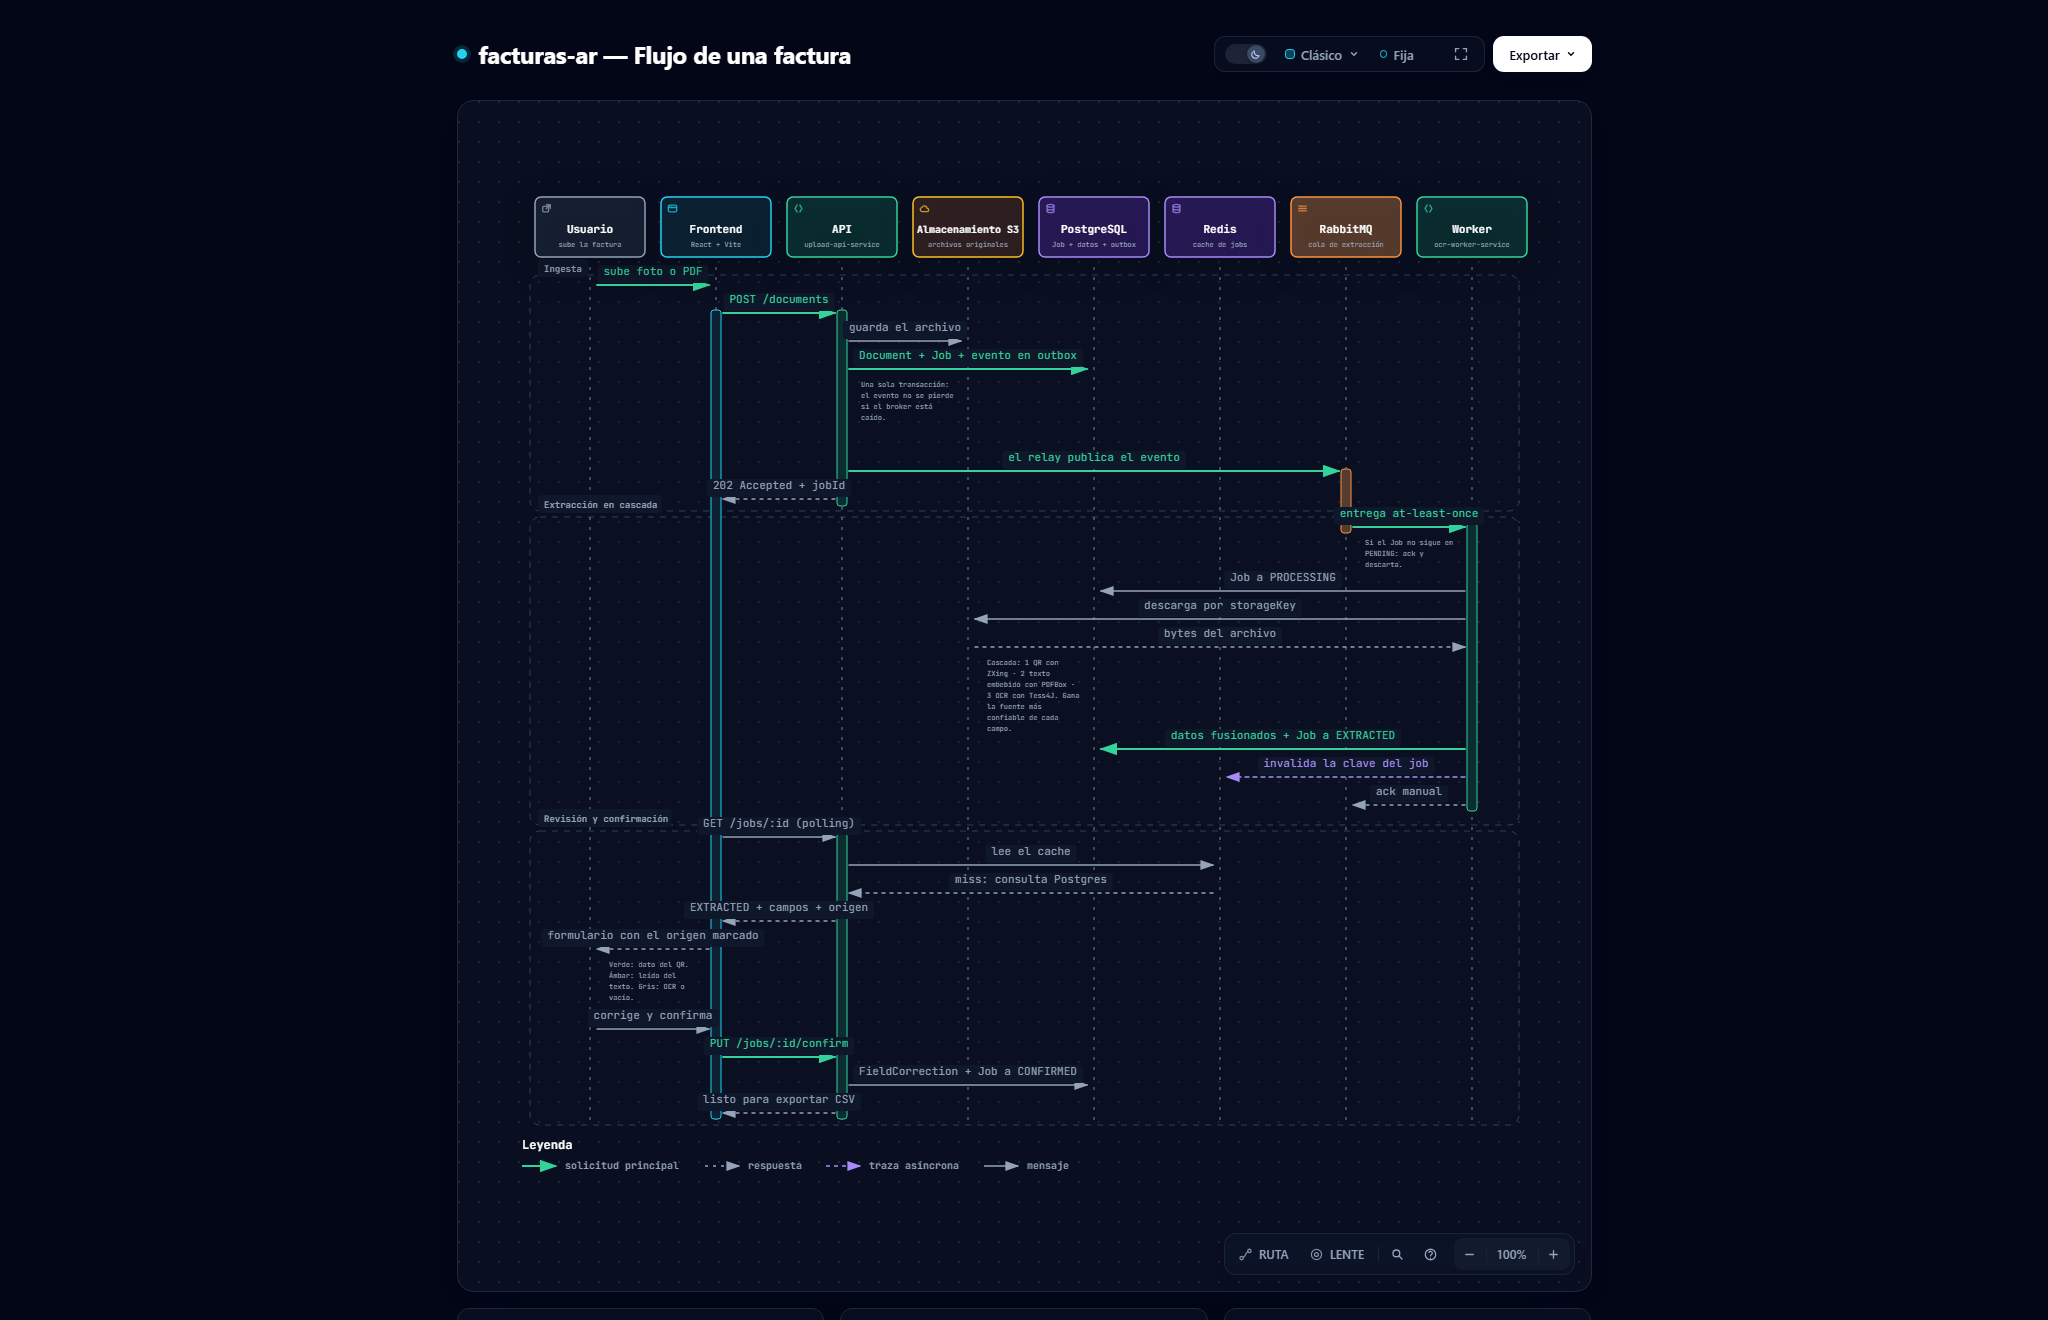
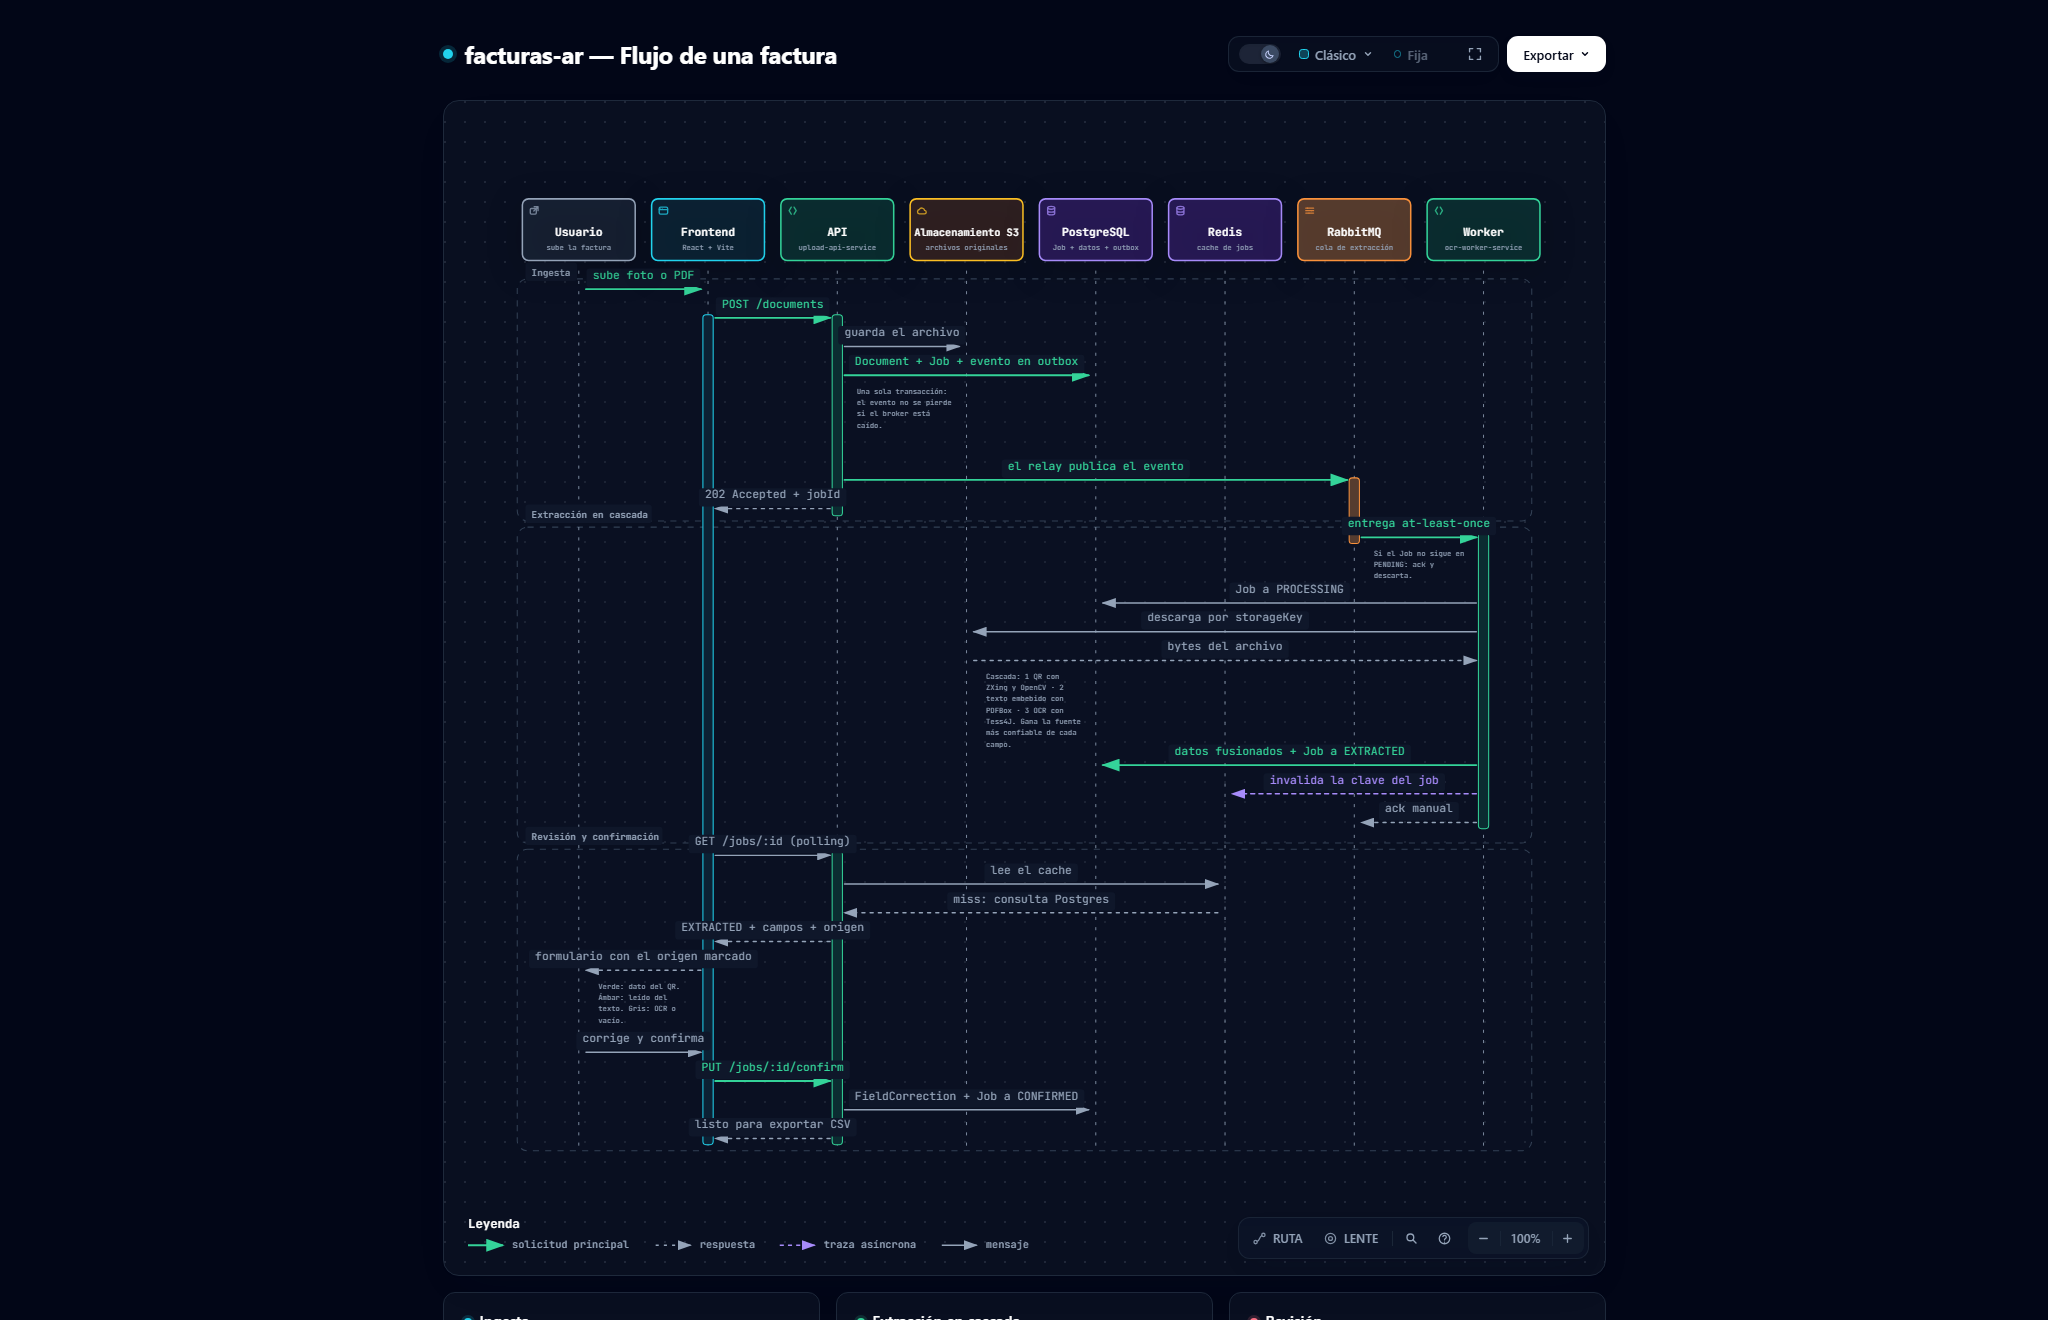
docs: los diagramas quedaron con dos cosas que ya no son ciertas
Decian que el QR lo lee ZXing y que PDFBox saca razon social, neto e
IVA. Lo primero dejo de ser cierto con el ADR 010: son dos motores
probados en orden, y el que lee las fotos es el de WeChat. Lo segundo
nunca llego a serlo: la v1 apunta al monotributista y no extrae neto ni
IVA, asi que la semana 3 dejo PDFBox sacando razon social y CUIT del
emisor. La tarjeta del diagrama de secuencia ademas decia siete campos
donde el QR trae doce.

La tabla de la cascada del README decia ZXing a secas en la fila del QR.
El resto del README y el documento de diseno ya estaban al dia.

Sobre como se regenero: Archify no esta instalado en la maquina y no se
pudo traer, asi que el HTML se parcheo a mano en vez de volver a
generarlo. Son nueve lineas en un diagrama y tres en el otro, todas de
texto. La unica que no reflui sola es la nota de la cascada, que Archify
habia partido en tspan al generar; se reenvolvio con el mismo corte de 22
caracteres, verificando primero que el algoritmo reprodujera la nota
original tal cual, y quedo en las mismas siete lineas, asi que la caja no
cambio de alto. Volver a correr Archify sobre el JSON corregido da este
mismo contenido.

Las PNG se recapturaron con Chrome headless a 2048x1320, que es lo que
media la exportacion anterior: el archivo es una captura de la pagina
entera, no una salida propia de Archify. Queda documentado en el README
como alternativa cuando el CLI no esta.

diff --git a/docs/diagrams/arquitectura.html b/docs/diagrams/arquitectura.html
@@ -5348,15 +5348,15 @@ OTHER DEALINGS IN THE FONT SOFTWARE.
         <text data-detail="context" x="1299.5" y="138" class="t-muted" font-size="9" text-anchor="middle">invoice.processing (topic)</text>
         </g>
 
-        <g id="node-worker" data-node-id="worker" data-node-label="ocr-worker-service" tabindex="0" role="button" aria-label="Enfocar ocr-worker-service, ZXing · PDFBox · Tess4J, Docker Compose · entorno local" aria-pressed="false" data-node-kind="backend" data-node-sublabel="ZXing · PDFBox · Tess4J" data-node-tag="cascada + ack manual" data-node-context="Docker Compose · entorno local">
-          <title>ocr-worker-service · ZXing · PDFBox · Tess4J · Docker Compose · entorno local · cascada + ack manual</title>
+        <g id="node-worker" data-node-id="worker" data-node-label="ocr-worker-service" tabindex="0" role="button" aria-label="Enfocar ocr-worker-service, ZXing + OpenCV · PDFBox · Tess4J, Docker Compose · entorno local" aria-pressed="false" data-node-kind="backend" data-node-sublabel="ZXing + OpenCV · PDFBox · Tess4J" data-node-tag="cascada + ack manual" data-node-context="Docker Compose · entorno local">
+          <title>ocr-worker-service · ZXing + OpenCV · PDFBox · Tess4J · Docker Compose · entorno local · cascada + ack manual</title>
           <rect x="1200" y="260" width="200" height="80" rx="8" class="c-mask"/>
           <rect x="1200" y="260" width="200" height="80" rx="8" class="c-backend" data-animate="node" style="--step:7" stroke-width="1.5"/>
           <g aria-hidden="true" data-semantic-sigil="backend" class="semantic-sigil s-backend" transform="translate(1206 266) scale(0.6875)">
             <path d="M6 3 3 8l3 5M10 3l3 5-3 5"/>
           </g>
           <text data-node-label="" data-detail-anchor="" x="1300" y="298" class="t-primary" font-size="11" font-weight="600" text-anchor="middle">ocr-worker-service</text>
-        <text data-detail="context" x="1300" y="314" class="t-muted" font-size="9" text-anchor="middle">ZXing · PDFBox · Tess4J</text>
+        <text data-detail="context" x="1300" y="314" class="t-muted" font-size="9" text-anchor="middle">ZXing + OpenCV · PDFBox · Tess4J</text>
         <text data-detail="fine" x="1300" y="332" class="t-backend" font-size="7" text-anchor="middle">cascada + ack manual</text>
         </g>
 
@@ -5654,9 +5654,9 @@ OTHER DEALINGS IN THE FONT SOFTWARE.
           <h3>Extracción en cascada</h3>
         </div>
         <ul>
-          <li>1 · QR de ARCA con ZXing: fecha, CUIT, punto de venta, tipo, número, importe y CAE exactos</li>
-          <li>2 · PDFBox sobre el texto embebido: razón social, neto e IVA</li>
-          <li>3 · OpenCV + Tess4J solo para lo que siga faltando; ante discrepancia gana el QR</li>
+          <li>1 · QR de ARCA, doce campos exactos y sin OCR: ZXing para el PDF rasterizado, el detector de WeChat de OpenCV para las fotos (ADR 010)</li>
+          <li>2 · PDFBox sobre el texto embebido: la razón social, que el QR no trae, y el CUIT del emisor como respaldo</li>
+          <li>3 · Tess4J solo para lo que siga faltando; ante discrepancia gana el QR</li>
         </ul>
       </div>
 

diff --git a/docs/diagrams/flujo-factura.html b/docs/diagrams/flujo-factura.html
@@ -5294,7 +5294,7 @@ OTHER DEALINGS IN THE FONT SOFTWARE.
           <rect x="675.9" y="502" width="124.19999999999999" height="18" rx="3" class="c-mask"/>
           <text x="738" y="512" class="t-muted" font-size="11" text-anchor="middle">bytes del archivo</text>
         </g>
-        <text data-detail="context" x="505" y="540" class="t-muted" font-size="7"><tspan x="505" dy="0">Cascada: 1 QR con</tspan><tspan x="505" dy="11">ZXing · 2 texto</tspan><tspan x="505" dy="11">embebido con PDFBox ·</tspan><tspan x="505" dy="11">3 OCR con Tess4J. Gana</tspan><tspan x="505" dy="11">la fuente más</tspan><tspan x="505" dy="11">confiable de cada</tspan><tspan x="505" dy="11">campo.</tspan></text>
+        <text data-detail="context" x="505" y="540" class="t-muted" font-size="7"><tspan x="505" dy="0">Cascada: 1 QR con</tspan><tspan x="505" dy="11">ZXing y OpenCV · 2</tspan><tspan x="505" dy="11">texto embebido con</tspan><tspan x="505" dy="11">PDFBox · 3 OCR con</tspan><tspan x="505" dy="11">Tess4J. Gana la fuente</tspan><tspan x="505" dy="11">más confiable de cada</tspan><tspan x="505" dy="11">campo.</tspan></text>
         </g>
 
         <g data-edge-from="worker" data-edge-to="postgres" data-edge-label="datos fusionados + Job a EXTRACTED" data-edge-key="10" data-edge-id="persiste-datos">
@@ -5722,8 +5722,8 @@ OTHER DEALINGS IN THE FONT SOFTWARE.
           <h3>Extracción en cascada</h3>
         </div>
         <ul>
-          <li>El QR obligatorio de ARCA (RG 4892) da siete campos exactos, sin OCR</li>
-          <li>PDFBox cubre razón social, neto e IVA sobre el texto embebido del PDF</li>
+          <li>El QR obligatorio de ARCA (RG 4892) da doce campos exactos, sin OCR, con dos decodificadores probados en orden</li>
+          <li>PDFBox saca del texto embebido la razón social, que el QR no trae</li>
           <li>El OCR queda de último recurso, solo para los campos que siguen vacíos</li>
           <li>Cada campo registra su fuente; ante discrepancia gana el QR</li>
         </ul>

diff --git a/README.md b/README.md
@@ -250,6 +250,16 @@ node <ruta>/archify/bin/archify.mjs finalize architecture \
 
 Las vistas estáticas (`*-light.png` / `*-dark.png`) salen de `archify visual-check <html> --out-dir <dir>`.
 
+Sin Archify a mano, esas PNG salen igual del HTML ya renderizado: son una
+captura de la página entera, así que Chrome headless alcanza.
+
+```bash
+chrome --headless=new --hide-scrollbars --force-prefers-reduced-motion \
+  --window-size=2048,1320 --force-device-scale-factor=1 \
+  --screenshot=docs/diagrams/arquitectura-light.png \
+  "file:///<ruta absoluta>/docs/diagrams/arquitectura.html?theme=light"
+```
+
 ---
 
 ## 5. Esquema de datos
@@ -451,7 +461,7 @@ El worker corre las estrategias en orden de prioridad y **cada campo se queda co
 
 | # | Estrategia | Librería | Confianza | Qué aporta |
 |---|---|---|---|---|
-| 1 | **QR** | ZXing | 1.0 | fecha, CUIT, punto de venta, tipo, número, importe, moneda, cotización, doc. receptor, CAE |
+| 1 | **QR** | ZXing + OpenCV | 1.0 | fecha, CUIT, punto de venta, tipo, número, importe, moneda, cotización, doc. receptor, CAE |
 | 2 | **Texto embebido** | Apache PDFBox | 0.9 | razón social y CUIT del emisor — solo si el PDF trae texto |
 | 3 | **OCR** | OpenCV + Tess4J | 0.3 – 0.8 | lo que siga faltando, en fotos y PDFs escaneados |
 
